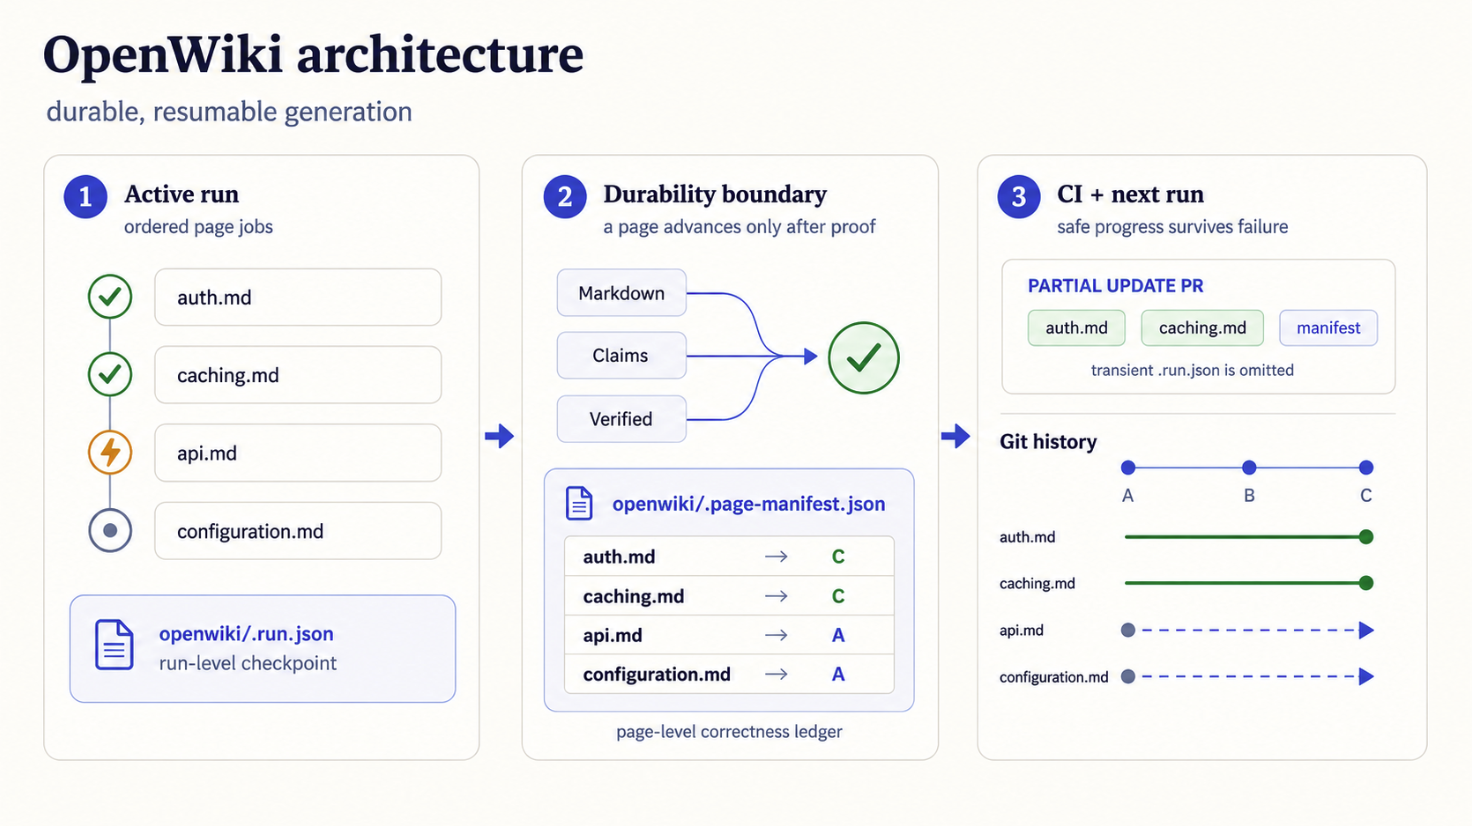
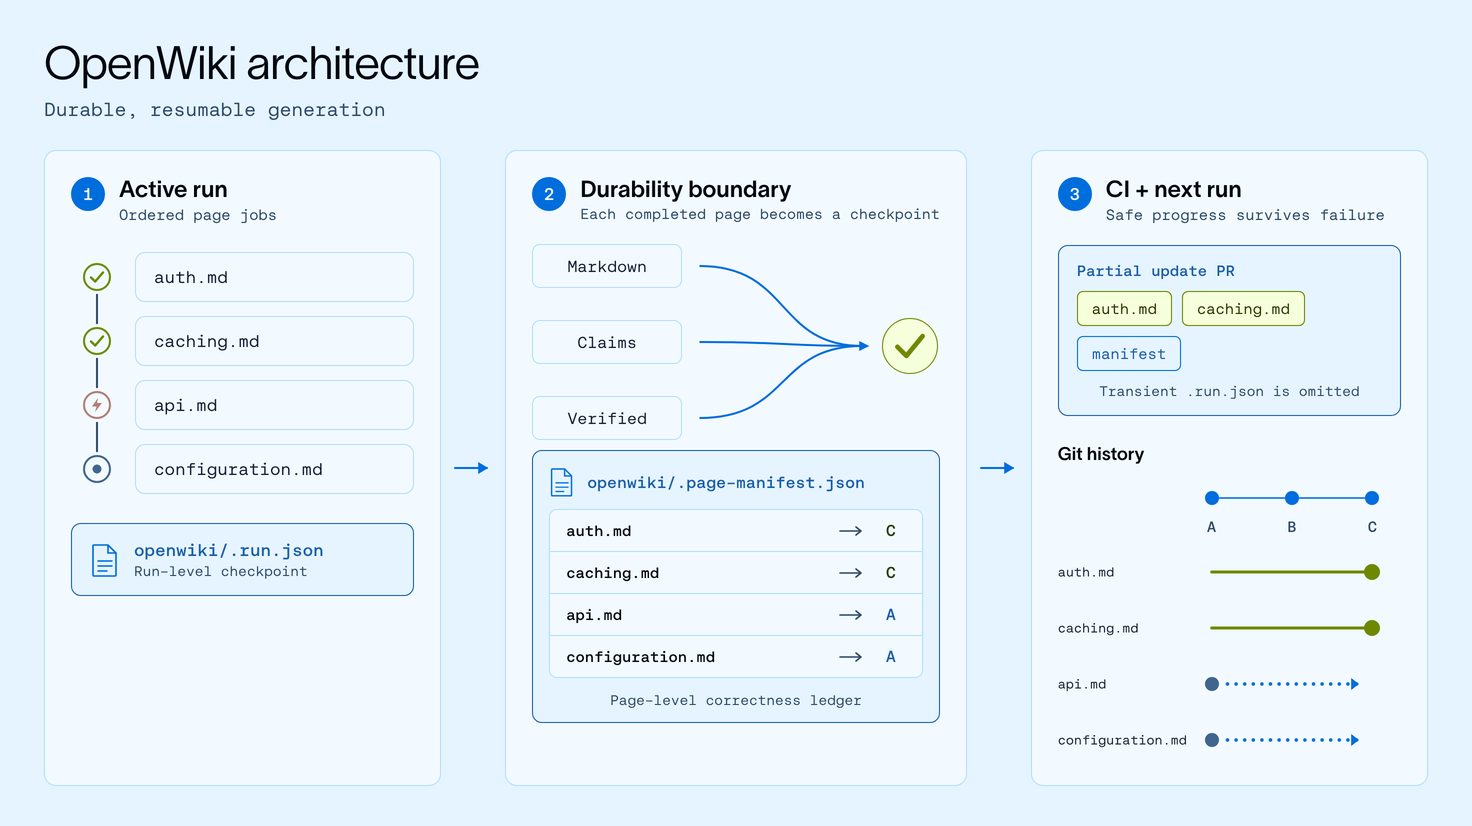
update README

Changed region(s): [[0.0, 0.0, 1.0, 1.0], [0.8125, 0.8172, 0.9375, 0.8475], [0.8125, 0.7567, 0.9375, 0.7869]]

diff --git a/README.md b/README.md
@@ -32,7 +32,7 @@ OpenWiki is a CLI that writes and maintains a wiki for your codebase or your per
 
 ## 🎉 What's new
 
-- **Resumable page-job architecture:** repository generation now follows `begin → submit_plan → next_page → submit_page → … → finish`, with a durable ordered page queue, focused per-page workers, strict Claims persistence, and whole-plan invalidation when repository source changes. Interrupted runs can resume when the same checkout persists; ephemeral CI runners do not retain uncommitted run state after failure.
+- **Resumable page-job architecture:** repository generation now follows `begin → submit_plan → next_page → submit_page → … → finish`, with a durable ordered page queue, focused per-page workers, strict Claims persistence, per-page source checkpoints, and partial-progress PRs for ephemeral CI. See [OpenWiki architecture](#openwiki-architecture) for the full flow.
 - **Grounded Claims:** material facts in code wikis now carry versioned source evidence. When that evidence changes or disappears, OpenWiki knows exactly which propositions need to be confirmed, rewritten, or retired.
 - **OpenWiki integrations:** run OpenWiki directly inside Codex, Claude Code, or OpenCode, using the coding agent's authenticated model and native repository tools while OpenWiki manages the documentation lifecycle.
 - **OKF v0.2:** every wiki is a portable Open Knowledge Format bundle with deterministic generation provenance and validated trust and lifecycle metadata.
@@ -119,6 +119,10 @@ Contributors adding another coding agent should follow
 ## Grounded Claims
 
 OpenWiki makes code wikis self-correcting by tracking the material propositions behind factual pages—not just when a Markdown file was last generated. Claims cover the truths future agents rely on: behavior, responsibilities, architecture, data flow, invariants, failure semantics, configuration, and security boundaries. Each one points to exact repository evidence such as `repo://src/server.ts#L40-L82`, with the evidence version OpenWiki observed when the claim was established.
+
+<div align="center">
+  <img alt="OpenWiki Claims reconcile code evidence into OKF page-level trust metadata." src="./static/openwiki-okf-claims.png" width="880">
+</div>
 
 Before an update, OpenWiki checks every persisted evidence version, before even deciding whether the repository is a no-op. A stale or unresolved Claim requires work for its owning page even if the planner omits it. The page worker receives the complete existing Claim set and submits the complete intended replacement set: unchanged Claims keep their IDs and refresh their evidence versions, revised Claims update in place, genuinely new Claims receive new IDs, and omitted Claims are retracted. The Markdown stays clean; structured Claim state lives alongside it under `openwiki/.claims/`.
 
